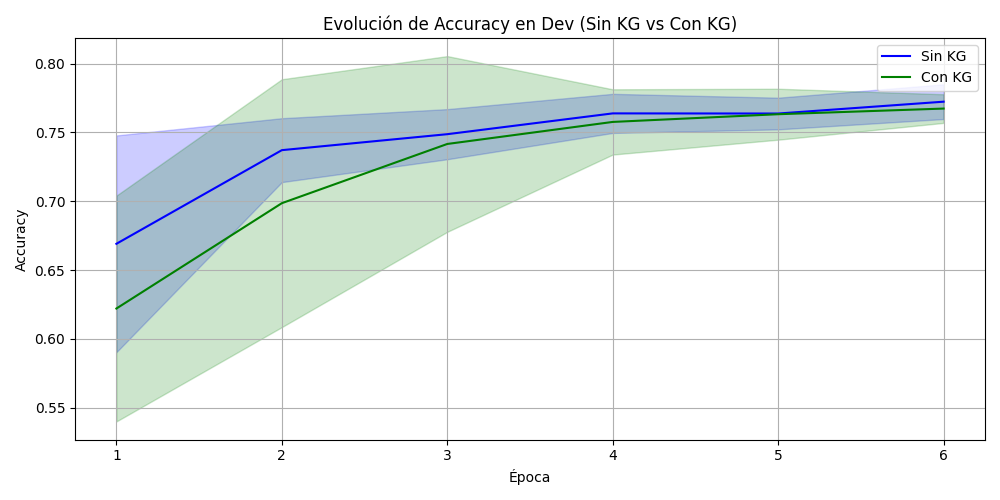
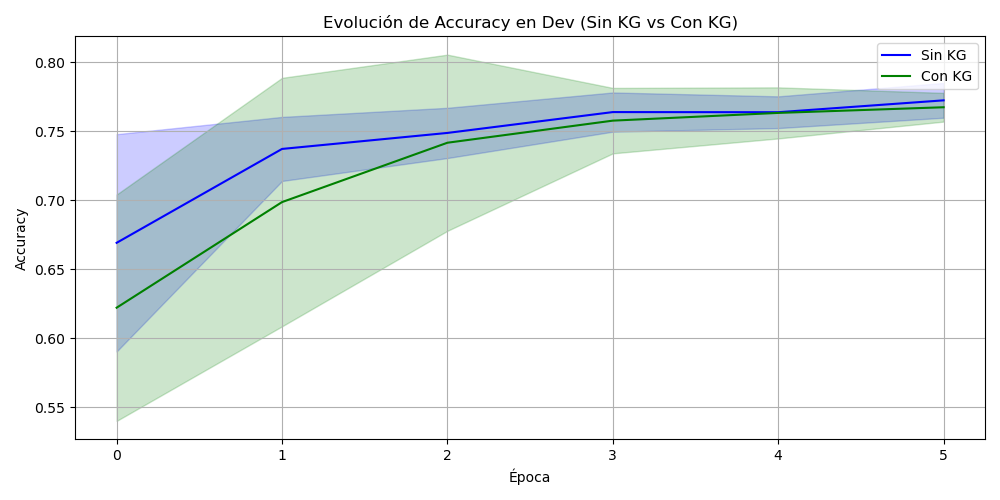
fixes

diff --git a/estadisticas.py b/estadisticas.py
@@ -6,12 +6,12 @@ from statistics import mean, stdev
 import pandas as pd
 
 # Configuración
-log_dir = "outputs/salud_mental/sinKG/"
-file_pattern = "salud_mental{}_sinKG.log"
-output_dir = "estadisticas/salud_mental/sinKG"
-file_dev = "salud_mentalsinKG_evolucion_dev.png"
-file_test = "salud_mentalsinKG_evolucion_test.png"
-file_datos = "salud_mentalsinKG_datos.txt"
+log_dir = "outputs/toxicidad/sinKG/"
+file_pattern = "toxicidad{}_sinKG.log"
+output_dir = "estadisticas/toxicidad/sinKG"
+file_dev = "toxicidadsinKG_evolucion_dev.png"
+file_test = "toxicidadsinKG_evolucion_test.png"
+file_datos = "toxicidadsinKG_datos.txt"
 os.makedirs(output_dir, exist_ok=True)
 
 # Expresiones regulares
@@ -93,7 +93,7 @@ with open(os.path.join(output_dir, file_datos), "w", encoding="utf-8") as out:
     out.write("== Evolución por época ==\n")
     out.write(f"{'Epoch':<6} {'Mean Dev Acc':<15} {'Std Dev Acc':<15} {'Mean Test Acc':<15} {'Std Test Acc':<15}\n")
     for i in range(max_len):
-        out.write(f"{i+1:<6} {mean_dev_per_epoch[i]:<15.4f} {std_dev_per_epoch[i]:<15.4f} {mean_test_per_epoch[i]:<15.4f} {std_test_per_epoch[i]:<15.4f}\n")
+        out.write(f"{i:<6} {mean_dev_per_epoch[i]:<15.4f} {std_dev_per_epoch[i]:<15.4f} {mean_test_per_epoch[i]:<15.4f} {std_test_per_epoch[i]:<15.4f}\n")
 
 # Gráfica Dev
 plt.figure()

diff --git a/comparar_graficas.py b/comparar_graficas.py
@@ -3,11 +3,11 @@ import pandas as pd
 import matplotlib.pyplot as plt
 
 # Rutas
-base_dir = "estadisticas/salud_mental"
-file_sinKG = os.path.join(base_dir, "sinKG", "salud_mentalsinKG_datos.txt")
-file_conKG = os.path.join(base_dir, "conKG", "salud_mentalconKG_datos.txt")
-dev= "salud_mental_dev_evolution.png"
-test= "salud_mental_test_evolution.png"
+base_dir = "estadisticas/toxicidad"
+file_sinKG = os.path.join(base_dir, "sinKG", "toxicidadsinKG_datos.txt")
+file_conKG = os.path.join(base_dir, "conKG", "toxicidadconKG_datos.txt")
+dev= "toxicidad_dev_evolution.png"
+test= "toxicidad_test_evolution.png"
 
 # Función para extraer la tabla de evolución del .txt
 def cargar_tabla_evolucion(path_txt):
